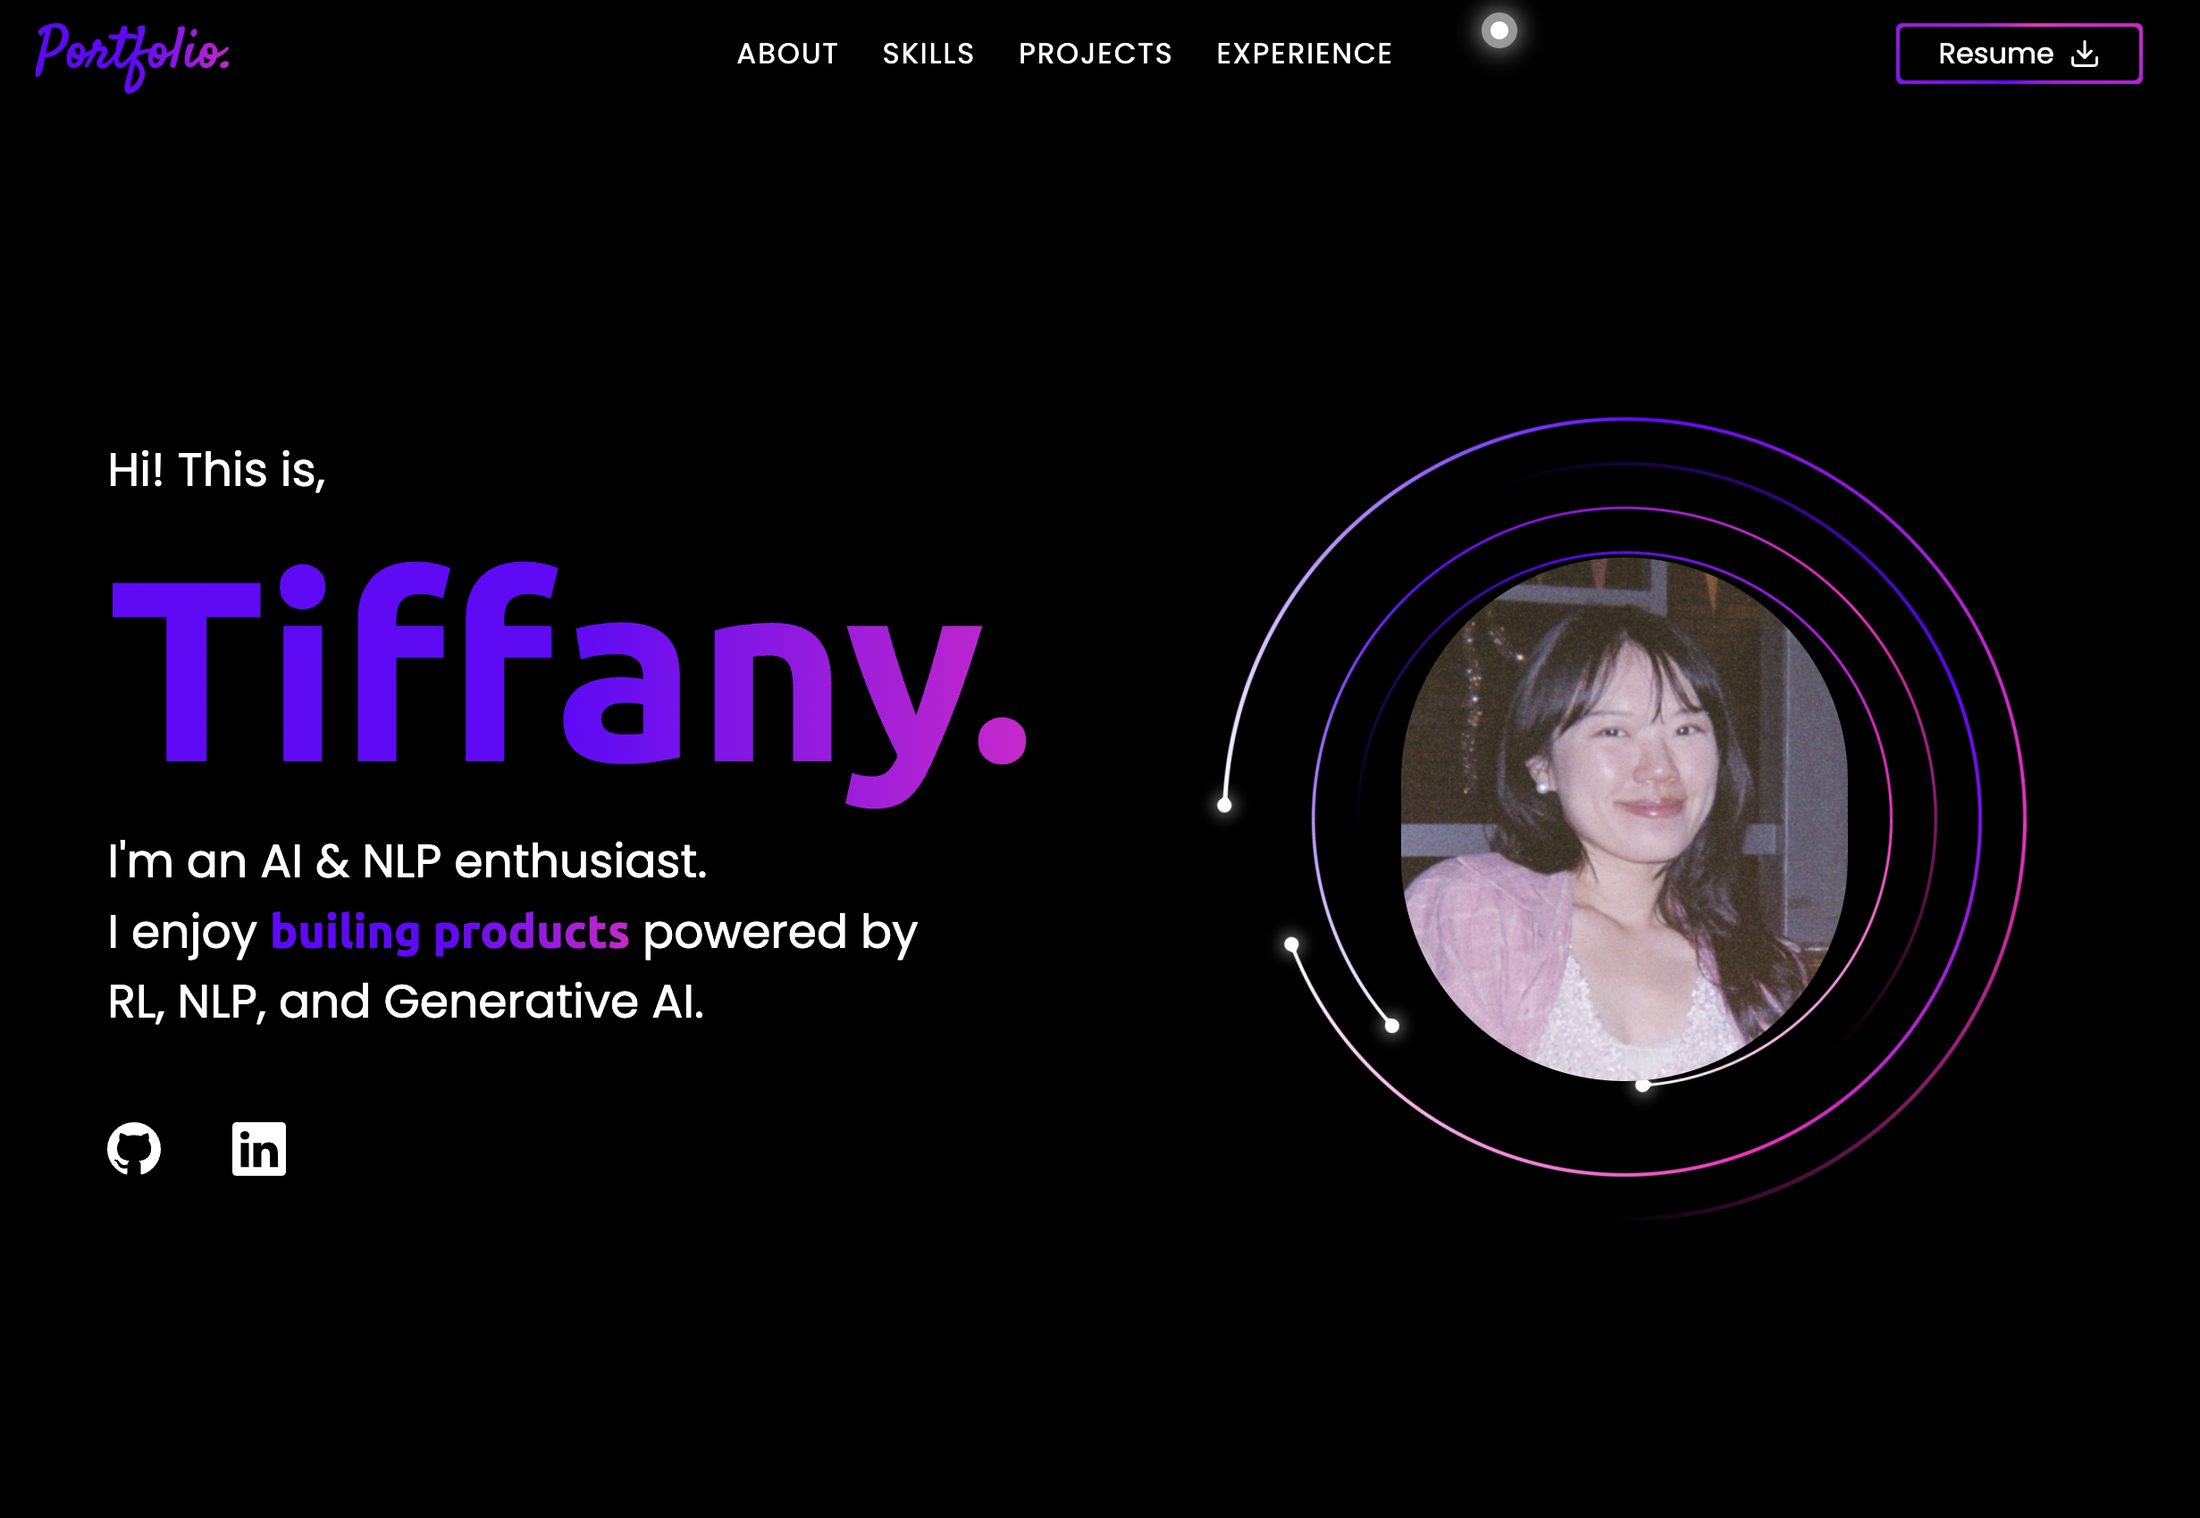
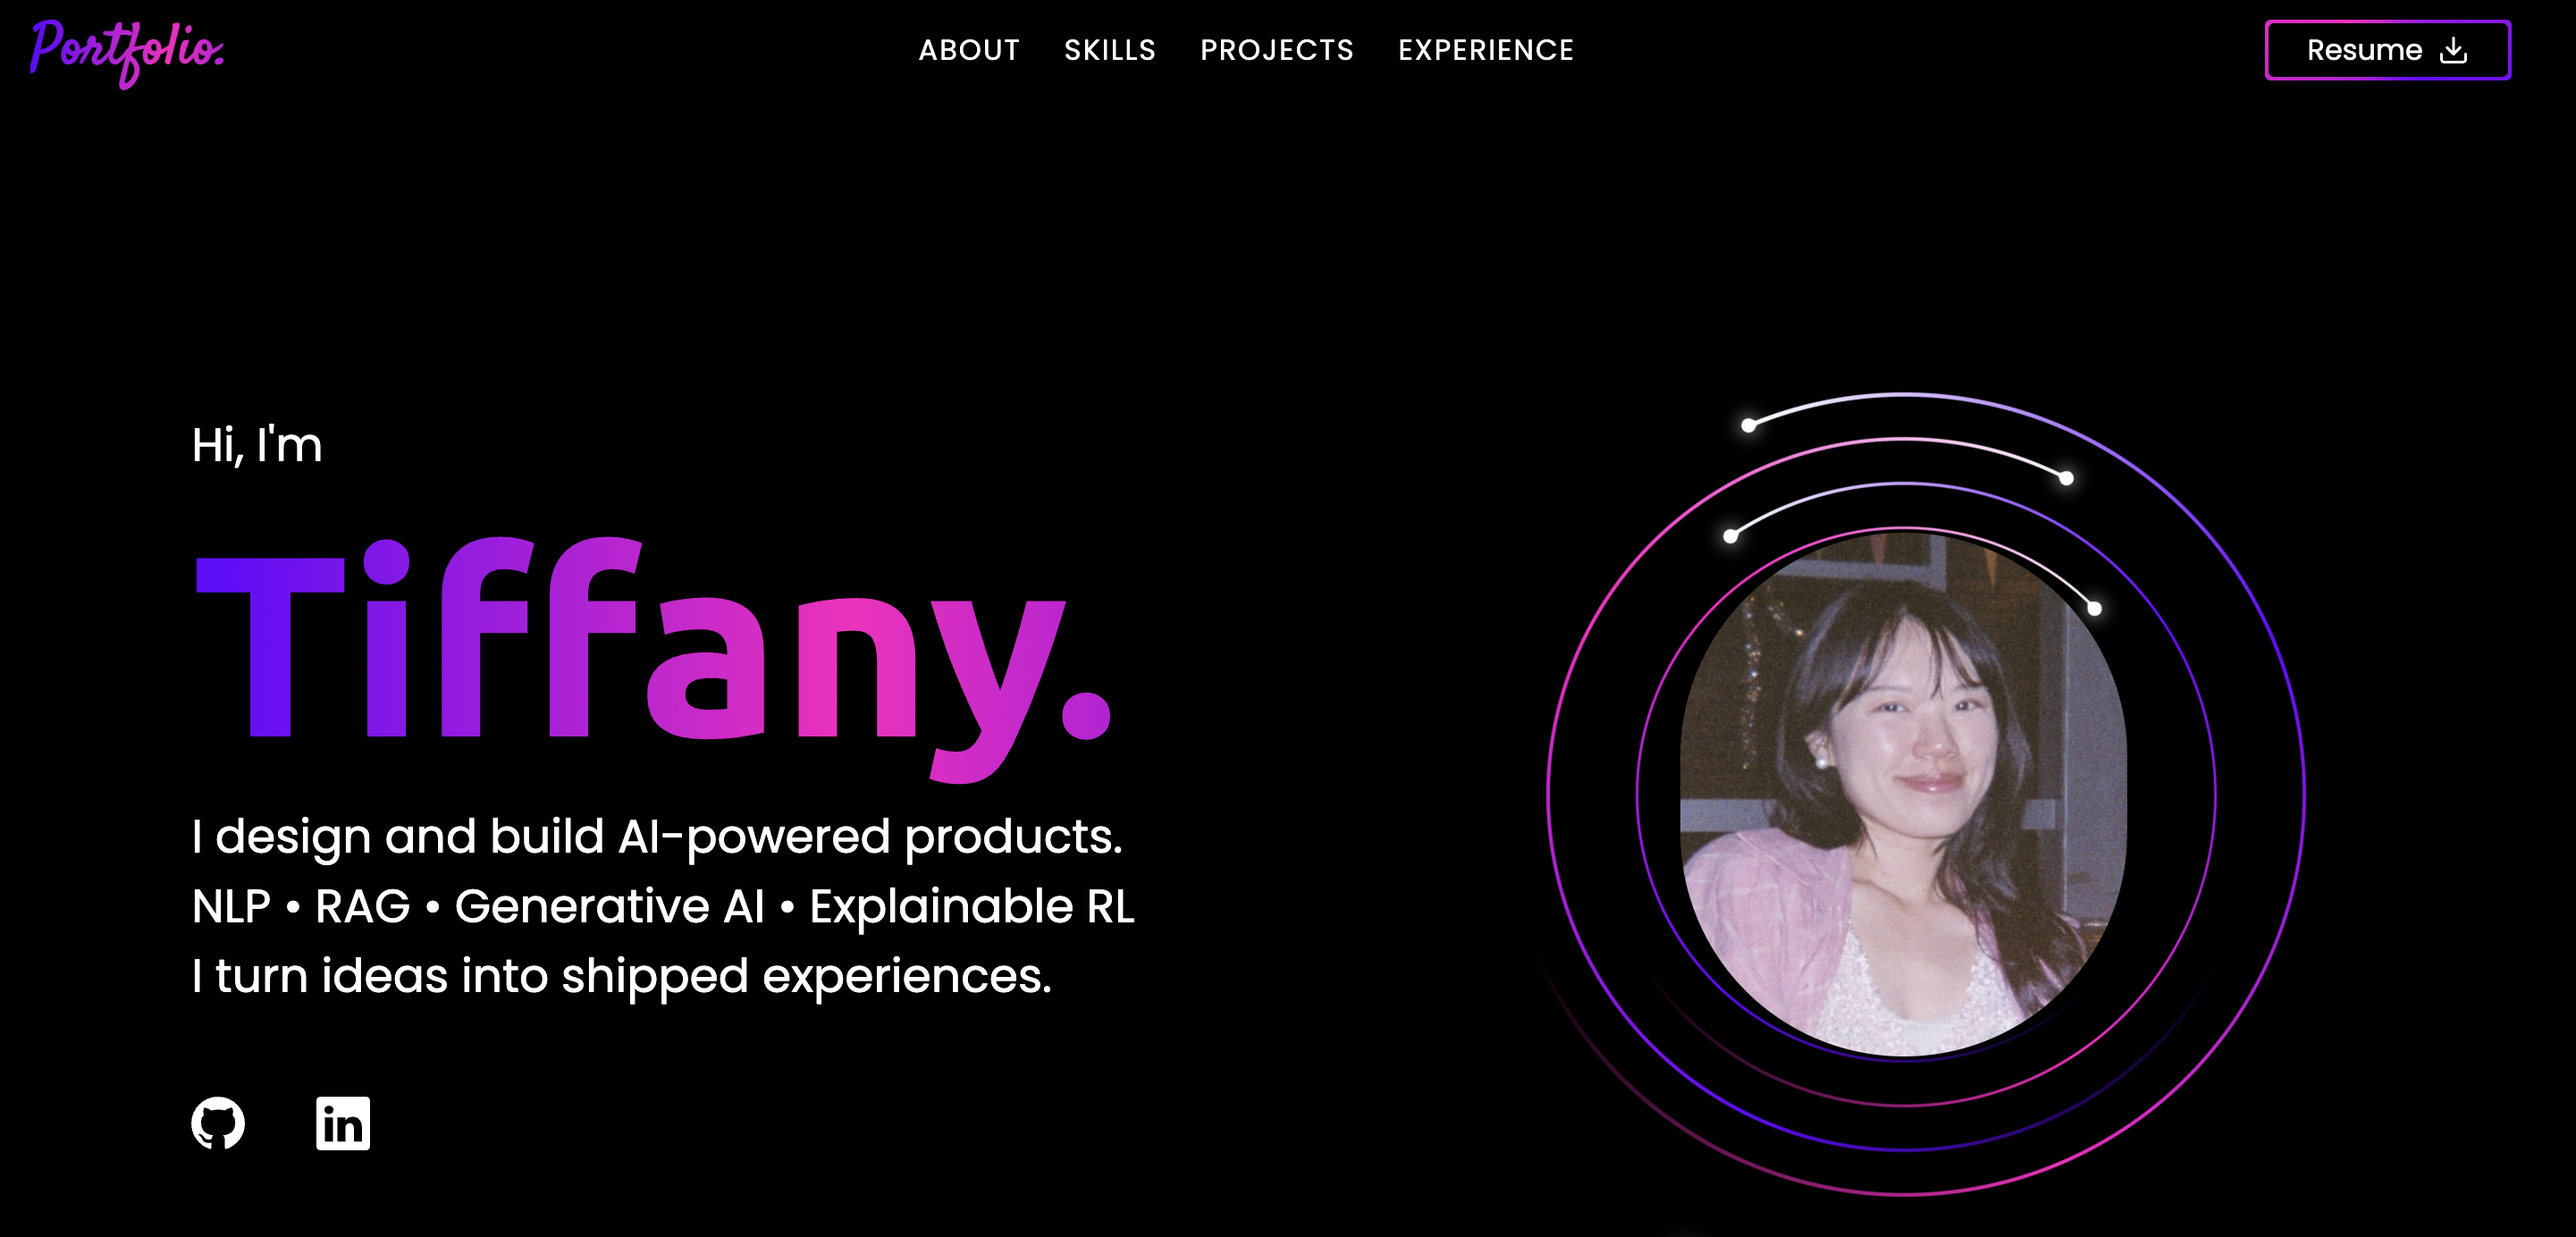
chore: update portfolio screenshot

diff --git a/README.md b/README.md
@@ -6,7 +6,9 @@
 # Tiffany Xiu - Personal Portfolio
 Welcome to Tiffany's portfolio website. 
 <br/>
-<img src="src/assets/my-portfolio-sh.png" alt="portfolio_home" width="300"/>
+<!-- <img src="src/assets/my-portfolio-sh.png" alt="portfolio_home" width="300"/> -->
+[<img src="src/assets/my-portfolio-sh.png" alt="portfolio_home" width="300" />](https://tiffanyxiu.vercel.app/)
+
 
 This is my personal developer portfolio website showcasing my projects, skills, and experiences.  
 🌐 Live Demo: [Tiffany Portfolio](https://tiffanyxiu.vercel.app/)
